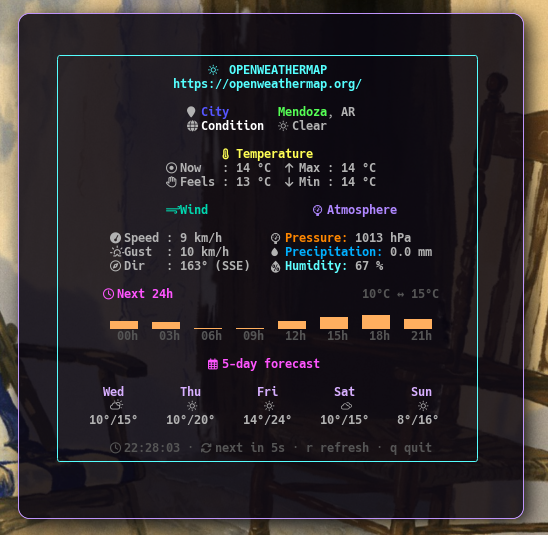
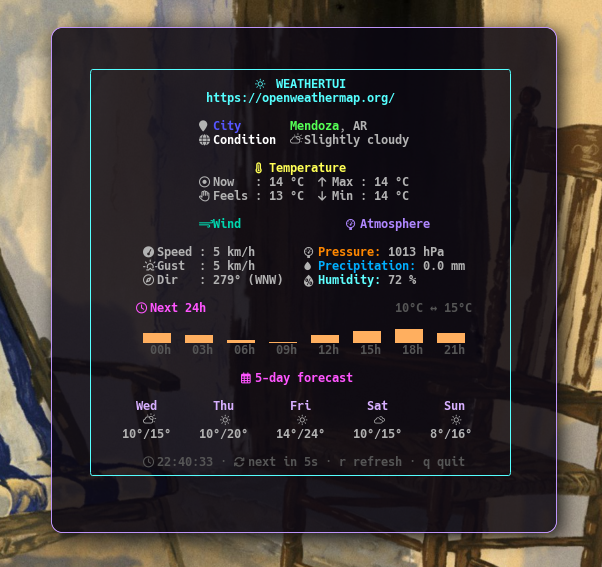
chore: changed name project in screenshot

diff --git a/internal/tui/model.go b/internal/tui/model.go
@@ -26,12 +26,6 @@ import (
 
 const refreshInterval = 5 * time.Second
 
-// tickMsg, dataMsg y errMsg son los tea.Msg que este modelo sabe manejar.
-// tea.Msg es "any" (interface{}) a nivel de firma —Bubbletea no tiene forma
-// de restringirlo a un enum cerrado como haría Rust con un match exhaustivo—
-// así que la exhaustividad del switch en Update() la garantiza el
-// programador, no el compilador. Cada tipo concreto que Init/Update
-// devuelven en un tea.Cmd termina, tarde o temprano, en uno de estos casos.
 type tickMsg time.Time
 
 type dataMsg struct {
@@ -41,8 +35,6 @@ type dataMsg struct {
 
 type errMsg struct{ err error }
 
-// Model is the bubbletea model driving the weather dashboard: it owns the
-// fetched data and refresh state. Rendering lives in view.go.
 type Model struct {
 	cfg config.Config
 
@@ -57,18 +49,6 @@ type Model struct {
 	width, height int
 }
 
-// New builds the initial model for the given config, ready to hand to
-// tea.NewProgram.
-//
-// Model se pasa y devuelve por valor en todo este archivo (nunca *Model).
-// Es la contraparte, en Go, del modelo de ownership de Rust: acá no hay
-// "mover" el struct ni pedirlo prestado, cada vez que Update recibe un
-// Model se lleva su propia copia (shallow copy de sus campos), la muta
-// libremente y la devuelve. El struct original en manos de Bubbletea queda
-// intacto hasta que esa copia vuelve. Es el patrón "immutable update" típico
-// de arquitecturas Elm, y es lo que permite no necesitar mutex en ningún
-// lado: el único lugar que puede tocar el estado es Update, y corre en un
-// único goroutine (el loop de eventos de Bubbletea).
 func New(cfg config.Config) Model {
 	return Model{cfg: cfg, loading: true}
 }
@@ -83,31 +63,12 @@ func scheduleTick() tea.Cmd {
 	})
 }
 
-// fetchCmd envuelve la llamada HTTP en un tea.Cmd, que es literalmente
-// `func() tea.Msg`. Bubbletea ejecuta ese closure en su propio goroutine y
-// mete el tea.Msg resultante en un channel interno que el loop principal
-// lee y despacha a Update. Por eso fetchCmd puede hacer I/O bloqueante
-// (net/http es sync) sin congelar la UI: el bloqueo pasa en un goroutine
-// aparte, nunca en el que dibuja pantalla.
-//
-// Nota de concurrencia que falta: ninguna de las dos llamadas a owm.Fetch*
-// recibe un context.Context, así que si el usuario aprieta "q" mientras hay
-// un fetch en vuelo, ese request HTTP sigue viajando igual — no hay forma
-// de cancelarlo desde este código. Bubbletea corta el programa, pero el
-// http.Client sigue esperando su respuesta en background hasta el timeout
-// de 10s de owm.httpTimeout. Con context.Context propagado desde acá se
-// podría cancelar ese Get() al salir.
 func fetchCmd(cfg config.Config) tea.Cmd {
 	return func() tea.Msg {
 		cw, err := owm.FetchCurrent(cfg)
 		if err != nil {
 			return errMsg{err}
 		}
-		// Si el clima actual falló ya devolvimos arriba: no tiene sentido
-		// pedir el forecast si ni siquiera pudimos autenticar/conectar.
-		// Es "fail fast" secuencial, no hay goroutines separadas para cada
-		// endpoint porque total tenemos que esperar a los dos antes de
-		// poder dibujar el dashboard.
 		fc, err := owm.FetchForecast(cfg)
 		if err != nil {
 			return errMsg{err}
@@ -116,13 +77,6 @@ func fetchCmd(cfg config.Config) tea.Cmd {
 	}
 }
 
-// Update es el único punto de mutación del estado en todo el programa. El
-// type switch sobre msg.(type) es la forma idiomática de Go de simular
-// pattern matching sobre una interfaz: en Rust esto sería un `match` sobre
-// un enum y el compilador te avisaría si te falta un variant; en Go, si
-// aparece un tea.Msg nuevo que no se cubre, simplemente cae al `return m,
-// nil` final sin aviso del compilador. La responsabilidad de que el switch
-// esté completo es del programador.
 func (m Model) Update(msg tea.Msg) (tea.Model, tea.Cmd) {
 	switch msg := msg.(type) {
 	case tea.WindowSizeMsg:
@@ -132,10 +86,6 @@ func (m Model) Update(msg tea.Msg) (tea.Model, tea.Cmd) {
 	case tea.KeyMsg:
 		switch msg.String() {
 		case "q", "ctrl+c", "esc":
-			// tea.Quit es en sí mismo un tea.Cmd (una func() tea.Msg que
-			// devuelve tea.QuitMsg{}); no aborta el programa desde acá,
-			// solo le indica al runtime que termine su loop prolijamente
-			// en la próxima vuelta.
 			return m, tea.Quit
 		case "r":
 			m.loading = true
@@ -144,10 +94,6 @@ func (m Model) Update(msg tea.Msg) (tea.Model, tea.Cmd) {
 		return m, nil
 
 	case tickMsg:
-		// Bubbletea no tiene setInterval: tea.Tick dispara una sola vez.
-		// Para tener un refresh periódico hay que volver a agendar el
-		// próximo tick cada vez que el anterior llega — de ahí que
-		// scheduleTick() se vuelva a meter en el tea.Batch de esta rama.
 		m.nextRefresh = time.Now().Add(refreshInterval)
 		return m, tea.Batch(fetchCmd(m.cfg), scheduleTick())
 
@@ -158,22 +104,12 @@ func (m Model) Update(msg tea.Msg) (tea.Model, tea.Cmd) {
 		m.loading = false
 		m.err = nil
 		m.lastUpdated = time.Now()
-		// time.Time{} (zero value) es un valor válido y usable sin construir
-		// nada: IsZero() es la forma idiomática de preguntar "¿esto nunca se
-		// seteó?" en vez de necesitar un Option<time.Time>/nullable como en
-		// Rust o PL/SQL. Este chequeo cubre el primer fetch exitoso, que
-		// llega antes que el primer tickMsg y por lo tanto antes de que
-		// nextRefresh se haya seteado por esa vía.
 		if m.nextRefresh.IsZero() {
 			m.nextRefresh = time.Now().Add(refreshInterval)
 		}
 		return m, nil
 
 	case errMsg:
-		// A propósito NO se pisa m.current/m.forecast: si ya había datos
-		// de un fetch anterior, se siguen mostrando (dashboard "stale pero
-		// visible") y solo se agrega el error en el footer. Ver
-		// view.go:renderFooter.
 		m.err = msg.err
 		m.loading = false
 		if m.nextRefresh.IsZero() {

diff --git a/internal/tui/view.go b/internal/tui/view.go
@@ -66,13 +66,11 @@ func (m Model) renderDashboard() string {
 
 	sections = append(sections, "", m.renderFooter())
 
-	// Center every section as a block against the widest one (usually the
-	// 5-day forecast row), instead of leaving narrower sections flush left.
 	return lipgloss.JoinVertical(lipgloss.Center, sections...)
 }
 
 func (m Model) renderHeader() string {
-	title := styleTitle.Render(iClear + "  OPENWEATHERMAP")
+	title := styleTitle.Render(iClear + "  WEATHERTUI")
 	url := styleURL.Render("https://openweathermap.org/")
 	return lipgloss.JoinVertical(lipgloss.Center, title, url)
 }
@@ -83,9 +81,6 @@ func (m Model) renderLocation() string {
 	return lipgloss.JoinVertical(lipgloss.Left, loc, cond)
 }
 
-// padRight pads plain ASCII labels (no icons/wide runes) to width. Only use
-// it on strings you know are single-byte-per-cell; for anything with icons
-// or accented/wide runes use padVisual, which measures actual cell width.
 func padRight(s string, width int) string {
 	if len(s) >= width {
 		return s
@@ -93,10 +88,6 @@ func padRight(s string, width int) string {
 	return s + strings.Repeat(" ", width-len(s))
 }
 
-// padVisual pads s to width terminal cells, measuring width the same way
-// lipgloss does. Needed for anything that mixes icons/degree signs with
-// plain text, where len(s) (byte count) would under-pad and ragged the
-// box's right border.
 func padVisual(s string, width int) string {
 	if w := lipgloss.Width(s); w < width {
 		s += strings.Repeat(" ", width-w)
@@ -104,8 +95,6 @@ func padVisual(s string, width int) string {
 	return s
 }
 
-// centerTitle centers a rendered title within width, widening to fit the
-// title itself if it's already longer than the column it sits over.
 func centerTitle(title string, width int) string {
 	if w := lipgloss.Width(title); w > width {
 		width = w
@@ -113,23 +102,12 @@ func centerTitle(title string, width int) string {
 	return lipgloss.PlaceHorizontal(width, lipgloss.Center, title)
 }
 
-// iconPrefixWidth is the terminal-cell width of a leading "icon + space"
-// prefix (every Nerd Font glyph used here renders as 1 cell).
 const iconPrefixWidth = 2
 
-// centerTitleAfterIcon centers title over textWidth (the row text with its
-// icon prefix stripped out), then shifts it right by iconPrefixWidth so it
-// still lines up with icon-prefixed rows below it. Without this, the icon
-// pulls the visible text rightward but the title stays centered over the
-// icon+text combo, so the title looks off-center relative to what you
-// actually read.
 func centerTitleAfterIcon(title string, textWidth int) string {
 	return strings.Repeat(" ", iconPrefixWidth) + centerTitle(title, textWidth)
 }
 
-// twoColRows lays out label/value pairs as two aligned columns, sizing the
-// left column to whatever its longest row actually needs (measured in
-// terminal cells, not bytes) instead of a hardcoded width.
 func twoColRows(pairs [][2]string) string {
 	leftWidth := 0
 	for _, p := range pairs {
@@ -158,17 +136,10 @@ func (m Model) renderTemperature() string {
 	return lipgloss.JoinVertical(lipgloss.Left, title, body)
 }
 
-// renderWindAtmosphere places Wind (speed/gust/direction) and Atmosphere
-// (pressure/precipitation/humidity) side by side, each under its own title
-// — grouping pressure and humidity under "Wind" was misleading, they're not
-// wind readings.
 func (m Model) renderWindAtmosphere() string {
 	return lipgloss.JoinHorizontal(lipgloss.Top, m.renderWind(), "   ", m.renderAtmosphere())
 }
 
-// iconRows renders icon+text pairs as a left-aligned block and returns it
-// alongside the max text width (icon excluded), so a title above it can be
-// centered over the text via centerTitleAfterIcon.
 func iconRows(pairs [][2]string) (body string, textWidth int) {
 	rows := make([]string, len(pairs))
 	for i, p := range pairs {
@@ -206,10 +177,6 @@ func (m Model) renderAtmosphere() string {
 	return lipgloss.JoinVertical(lipgloss.Left, title, "", body)
 }
 
-// sparkBarWidth is how many terminal cells each forecast point's bar draws
-// as, and sparkColWidth how much horizontal room its hour label gets —
-// widening the chart so each time step actually reads at a glance instead
-// of packing into a dense one-line sparkline.
 const (
 	sparkBarWidth = 4
 	sparkColWidth = sparkBarWidth + 2
@@ -231,12 +198,6 @@ func (m Model) renderSparkline() string {
 			max = p.Temp
 		}
 	}
-	// []rune(string) es obligatorio acá, no cosmético: sparkline devuelve
-	// bloques Unicode (▁▂▃...) que ocupan 3 bytes cada uno en UTF-8. Indexar
-	// el string directo (sparkline(temps)[i]) daría bytes sueltos de un
-	// caracter multi-byte, no el caracter completo. Convertir a []rune
-	// primero paga el costo de decodificar todo el string una vez, y a
-	// cambio barRunes[i] indexa por caracter real.
 	barRunes := []rune(sparkline(temps))
 
 	cols := make([]string, len(slice))
@@ -250,8 +211,6 @@ func (m Model) renderSparkline() string {
 
 	rangeText := styleGray.Render(fmt.Sprintf("%.0f°C ↔ %.0f°C", min, max))
 
-	// Range on the same row as the title, pushed to the right edge of the
-	// chart instead of trailing it on its own line below.
 	title := styleSectionTitleFc.Render(iClock + " Next 24h")
 	header := padVisual(title, lipgloss.Width(row)-lipgloss.Width(rangeText)) + rangeText
 

diff --git a/internal/tui/icons.go b/internal/tui/icons.go
@@ -33,8 +33,6 @@ const (
 	iRefresh   = "" // nf-fa-refresh
 	iCalendar  = "" // nf-fa-calendar
 
-	// Written directly from Unicode codepoints (not pasted glyphs) so the
-	// exact character is unambiguous in source and diff-safe.
 	iSpeed = "" // nf-fa-tachometer
 	iGust  = "" // nf-weather-windy
 	iDir   = "" // nf-fa-compass
@@ -49,15 +47,6 @@ const (
 	iCloudy  = "" // nf-weather-cloudy
 )
 
-// skyIcon maps an OpenWeatherMap condition code to an icon + short label,
-// mirroring the range-based mapping from weather.sh.
-//
-// A diferencia de C/PHP, el switch de Go no hace fallthrough entre cases
-// por default (cada case termina implícito en un break; hay un `fallthrough`
-// explícito si de verdad se lo necesita, no se usa acá). Y un switch sin
-// expresión, como este (`switch { case cond1: ...}`), es simplemente una
-// cadena de if/else if más legible — no compara nada contra un valor, cada
-// case es su propia condición booleana.
 func skyIcon(code int, fallback string) string {
 	switch {
 	case code >= 200 && code < 300:
@@ -82,12 +71,6 @@ func skyIcon(code int, fallback string) string {
 		return fallback
 	}
 }
-
-// skyIconOnly usa `case code == 801, code == 802:` en vez de `||` — dos
-// formas equivalentes de agrupar condiciones en un mismo case en Go
-// (comparable al `801 | 802 => ...` de un match en Rust), mezcladas acá con
-// las de arriba solo porque skyIcon ya existía con `||`. No hay diferencia
-// de comportamiento entre las dos formas.
 
 // skyIconOnly is the same mapping but returns just the glyph, for compact forecast rows.
 func skyIconOnly(code int) string {

diff --git a/cmd/weathertui/main.go b/cmd/weathertui/main.go
@@ -32,14 +32,6 @@ func main() {
 		os.Exit(1)
 	}
 
-	// tui.New(cfg) devuelve un tui.Model, y tea.NewProgram pide algo que
-	// cumpla la interfaz tea.Model (Init/Update/View). En ningún lado del
-	// código de tui dice "tui.Model implements tea.Model" — Go chequea la
-	// interfaz de forma implícita/estructural: si el struct tiene esos tres
-	// métodos con esa firma, ya la satisface. Es lo más parecido en Go a
-	// los traits de Rust, pero sin un `impl Trait for Type` explícito: la
-	// única forma de confirmar que tui.Model realmente la cumple es que
-	// esta línea compile.
 	p := tea.NewProgram(tui.New(cfg), tea.WithAltScreen())
 	if _, err := p.Run(); err != nil {
 		fmt.Fprintf(os.Stderr, "%s %v\n", tui.IconError, err)
